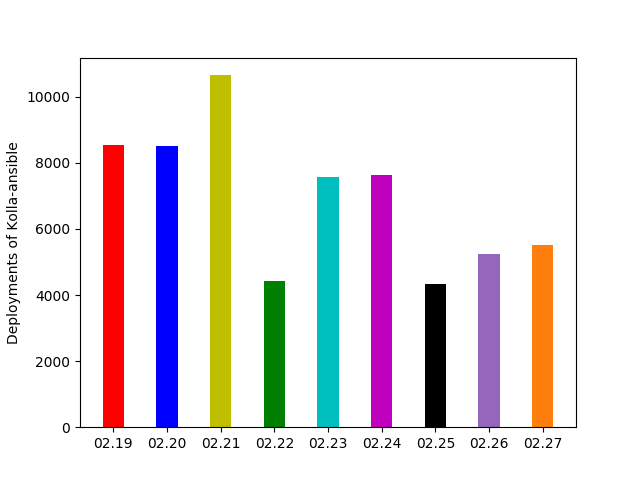
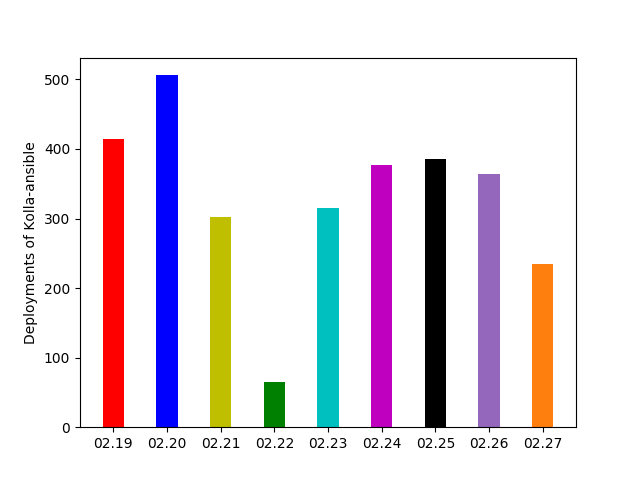
Prise en compte des doublons de builds

diff --git a/openstack_ci/treat_results.py b/openstack_ci/treat_results.py
@@ -10,10 +10,15 @@ def get_lines(date):
     filenames = []
     filenames = find(date, "results")
     count_builds = 0
+    builds_already_seen = []
     for i in filenames:
         path = i
         with open(path, "r") as reader:
-            count_builds += len(reader.readlines())
+            for line in reader.readlines():
+                current_build = line
+                if current_build not in builds_already_seen:
+                    builds_already_seen.append(current_build)
+                    count_builds += 1
     return count_builds
 
 
@@ -44,6 +49,7 @@ def make_figure(results):
 
 
 if __name__ == "__main__":
+    # changer ça pour adapter aux données récupérées
     results = {
         "20.02.19": 0,
         "20.02.20": 0,
